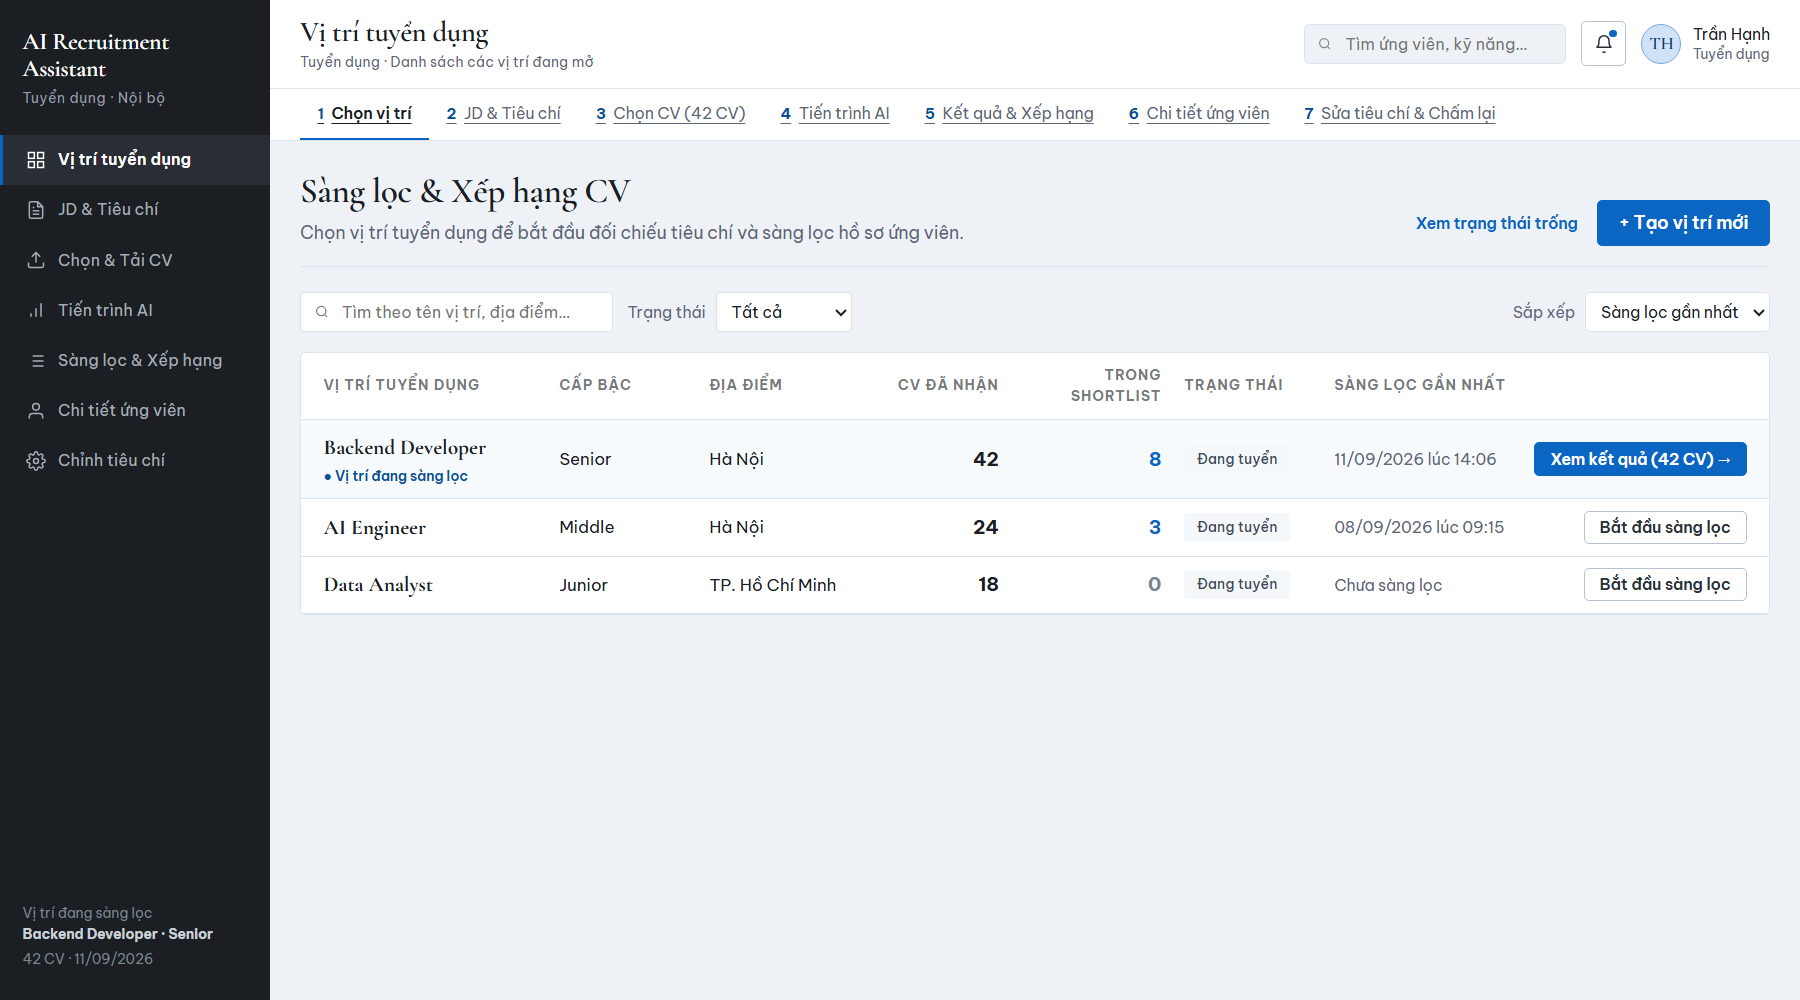
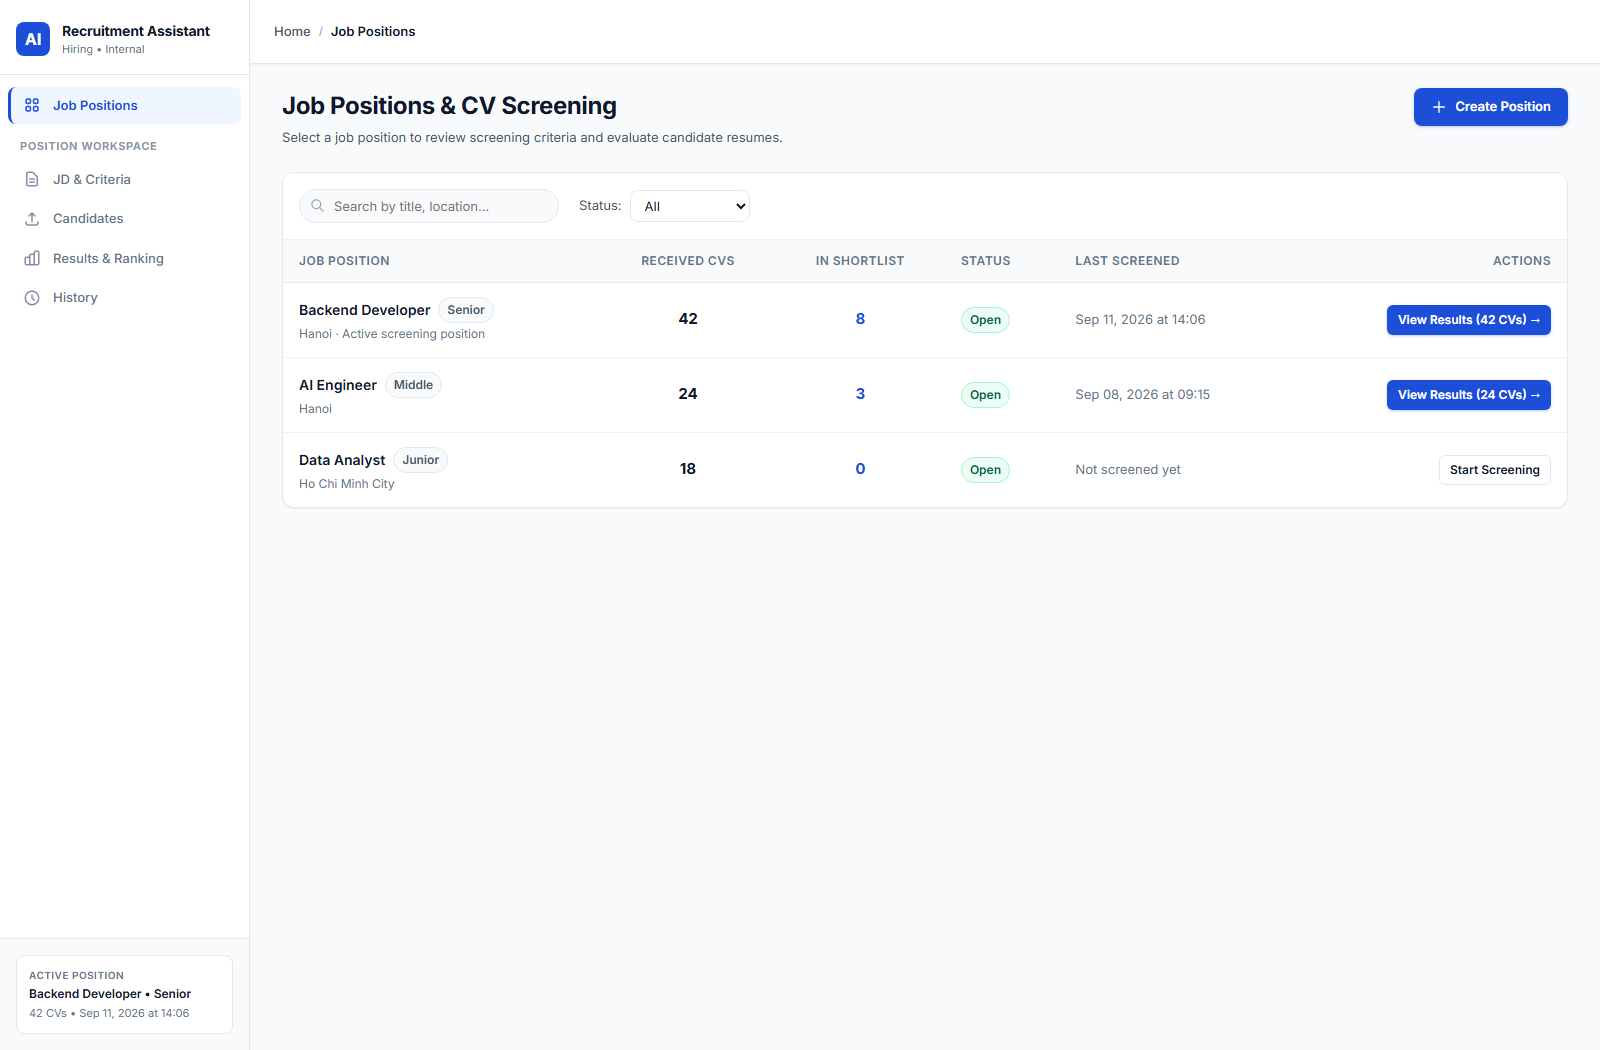
docs: update screenshots and README

diff --git a/frontend/src/router/index.ts b/frontend/src/router/index.ts
@@ -29,7 +29,10 @@ const routes: RouteDefinition[] = [
   route("/positions/{position}/ranking", () => import("../screens/scr-06-published-ranking/index.js")),
   route("/positions/{position}/candidates/{result}", () => import("../screens/scr-07-candidate-result/index.js")),
   route("/positions/{position}/runs", () => import("../screens/scr-08-run-history/index.js")),
-  route("/positions/{position}/criteria/new-revision", () => import("../screens/scr-03-criteria-review/index.js")),
+  // A dedicated literal route for "new-revision" doesn't capture a
+  // `revision` param, so the screen can't tell it apart from a draft — the
+  // generic {revision} route below already covers it, since scr-03's
+  // resolveMode() checks for the literal string "new-revision".
   route("/positions/{position}/criteria/{revision}", () => import("../screens/scr-03-criteria-review/index.js")),
   route("/positions/{position}/comparison", () => import("../screens/scr-10-run-comparison/index.js")),
 ];

diff --git a/README.md b/README.md
@@ -4,7 +4,7 @@ API contract: [OpenAPI 3.0.3](docs/api/openapi.yaml) · [API guide and requireme
 
 An explainable recruitment assistant concept for resume screening and candidate ranking based on Job Descriptions (JD). It aims to reduce manual screening effort and make results inspectable through evidence; the prototype does not establish real-world AI accuracy or bias reduction.
 
-The repository contains a **TypeScript API implementation with in-memory repositories and mock AI**, a new frontend scaffold, and the original standalone HTML/CSS/JavaScript prototype. Scoring is deterministic backend code; AI is used only as an extraction interface. Real PDF/DOCX parsing, AI-provider calls, database persistence and a connected UI remain unfinished.
+The repository contains a **TypeScript API implementation with in-memory repositories and mock AI**, a new fixture-driven frontend covering all ten target screens, and the original standalone HTML/CSS/JavaScript prototype. Scoring is deterministic backend code; AI is used only as an extraction interface. Real PDF/DOCX parsing, AI-provider calls, database persistence and a frontend connected to the live API remain unfinished.
 
 > **Design documentation:** [Architecture](docs/architecture/README.md) covers C1–C3, arc42, deployment, and sequence diagrams. [UI/UX design](docs/ui-ux/README.md) covers the target information architecture, screen hierarchy, flows, and screen specifications. Both describe the selected JD-based CV screening and ranking workflow; the current prototype does not yet implement all specified behavior.
 
@@ -148,44 +148,59 @@ Ranking reads `jobs.published_run_id`. Publication switches this pointer and com
 
 ---
 
-## 5. Original Prototype — Screen-by-Screen
+## 5. Frontend — Screen-by-Screen
 
-The screenshots below show the **seven-screen legacy prototype**, with simulated data and scoring. They are not the new frontend. The target UI has ten screens (SCR-01–SCR-10), documented in [UI/UX specifications](docs/ui-ux/screen-specifications.md); `frontend/` currently contains their route/heading placeholders and typed fixtures.
+The screenshots below are the current `frontend/` SPA (vanilla TypeScript, hash router, typed fixtures) — ten screens (SCR-01–SCR-10), documented in [UI/UX specifications](docs/ui-ux/screen-specifications.md). It is fixture-driven, not yet wired to the real API.
 
-### 5.1 Vị trí tuyển dụng — Job Positions (`#vi-tri`)
-Entry point. Lists open positions with their CV counts and screening status, so the recruiter picks a job before anything else happens.
+### 5.1 SCR-01 — Job Positions (`#/positions`)
+Entry point. Lists open positions with their CV counts, shortlist counts and screening status, so the recruiter picks a job before anything else happens.
 
-![Screen 1 — Job positions](docs/screenshots/01-job-positions.png)
+![SCR-01 — Job Positions](docs/screenshots/01-job-positions.png)
 
-### 5.2 JD & Tiêu chí — JD & Criteria (`#tieu-chi`)
-The JD on the left, the extracted criteria on the right. Each criterion carries a **weight** and a **Bắt buộc / Ưu tiên** (mandatory / preferred) flag — these two fields alone determine both the score and who falls below the divider.
+### 5.2 SCR-02 — Create Position & JD (`#/positions/new`)
+Position metadata plus the original JD text, which is preserved as immutable source evidence — later edits create a new draft rather than altering it retroactively.
 
-![Screen 2 — JD and criteria](docs/screenshots/02-jd-criteria.png)
+![SCR-02 — Create Position & JD](docs/screenshots/02-position-jd-form.png)
 
-### 5.3 Chọn & Tải CV — Upload CVs (`#tai-cv`)
-Batch selection of the CVs to screen (42 in the sample dataset), with per-file parse status before the scoring run is launched.
+### 5.3 SCR-03 — JD & Screening Criteria (`#/positions/{id}/criteria`)
+The JD on the left, the AI-extracted criteria on the right. Each criterion carries a **weight** and a **Mandatory / Preferred** flag — these two fields alone determine both the score and who falls below the knockout divider.
 
-![Screen 3 — Upload CVs](docs/screenshots/03-upload-cv.png)
+![SCR-03 — JD & Screening Criteria](docs/screenshots/03-jd-criteria.png)
 
-### 5.4 Tiến trình AI — AI Progress (`#tien-trinh`)
-The scoring run made visible: per-stage progress (parsing → extraction → matching → scoring) instead of an opaque spinner, so a long batch stays legible.
+### 5.4 SCR-04 — Candidate CV Workspace (`#/positions/{id}/cv-workspace`)
+The uploaded CVs for the position, with per-file parse status (parsed / parsing / duplicate / failed) before a screening run is launched.
 
-![Screen 4 — AI progress](docs/screenshots/04-ai-progress.png)
+![SCR-04 — Candidate CV Workspace](docs/screenshots/04-cv-workspace.png)
 
-### 5.5 Kết quả & Xếp hạng — Ranking (`#ket-qua`)
-The core deliverable. Exactly six columns; sub-scores live in the expandable row, never in the header table. Candidates who fail a mandatory criterion are **not dropped** — they stay ranked below a divider, still fully actionable, because "failed" is a recruiter's judgement call, not the system's.
+### 5.5 SCR-05 — AI Screening Run (`#/positions/{id}/screening-runs/{run}`)
+The scoring run made visible as a single completion state instead of an opaque spinner, redirecting into the ranking once every resume has been scored.
 
-![Screen 5 — Ranking](docs/screenshots/05-ranking.png)
+![SCR-05 — AI Screening Run](docs/screenshots/05-screening-run.png)
 
-### 5.6 Chi tiết ứng viên — Candidate Detail (`#chi-tiet/:id`)
-Per-criterion accountability: status, weight, contribution to the total, and the quoted evidence from the CV — with the original CV rendered alongside for verification.
+### 5.6 SCR-06 — Screening Results & Published Ranking (`#/positions/{id}/ranking`)
+The core deliverable. Candidates who fail a mandatory criterion are **not dropped** — they stay ranked below a divider, still fully actionable, because "failed" is a recruiter's judgement call, not the system's.
 
-![Screen 6 — Candidate detail](docs/screenshots/06-candidate-detail.png)
+![SCR-06 — Published Ranking](docs/screenshots/06-ranking.png)
 
-### 5.7 Sửa tiêu chí & Chấm lại — Rescore (`#chinh-tieu-chi`)
-What-if recalibration: change weights or promote a criterion to mandatory, rescore, and compare the new round against the previous one to see exactly which rankings moved and why.
+### 5.7 SCR-07 — Candidate Result & Evidence (`#/positions/{id}/candidates/{result}`)
+Per-criterion accountability: status, weight, contribution to the total, and the quoted evidence from the CV — with the original resume rendered alongside for verification.
 
-![Screen 7 — Rescore and compare](docs/screenshots/07-rescore.png)
+![SCR-07 — Candidate Result & Evidence](docs/screenshots/07-candidate-result.png)
+
+### 5.8 SCR-08 — Screening Run History (`#/positions/{id}/runs`)
+Audit trail across criteria revisions and screening rounds; selecting exactly two runs enables comparing their candidate ranking volatility.
+
+![SCR-08 — Screening Run History](docs/screenshots/08-run-history.png)
+
+### 5.9 SCR-09 — New Criteria Revision (`#/positions/{id}/criteria/new-revision`)
+What-if recalibration: adjust weights or promote a criterion to mandatory, starting from the last approved revision, then rescore to create a new run.
+
+![SCR-09 — New Criteria Revision](docs/screenshots/09-criteria-revision.png)
+
+### 5.10 SCR-10 — Run Comparison (`#/positions/{id}/comparison`)
+Side-by-side impact analysis between two runs: which candidates moved to failed or passed, and why, tied back to exactly which criterion changed weight or requirement type.
+
+![SCR-10 — Run Comparison](docs/screenshots/10-run-comparison.png)
 
 > **Colour is never the only signal.** Every state in these screens is carried by colour *and* an icon *and* a text label (and, for scores, bar length), so the interface stays readable for colour-blind users and in greyscale print.
 
@@ -226,14 +241,14 @@ The script defaults to `http://127.0.0.1:3100`; set `API_BASE_URL` to use anothe
 
 Files, jobs, decisions and idempotency records disappear when their process/store is reset. The mock extractor decodes uploaded bytes as UTF-8 and applies keyword/regex rules; test fixtures contain text labeled as PDF. Accepting a PDF/DOCX MIME type does not establish real document parsing or OCR support.
 
-### 6.2 New frontend scaffold
+### 6.2 New frontend
 
 ```bash
 npm run build -w @app/frontend
 python -m http.server 8080 --directory frontend
 ```
 
-Open `http://localhost:8080`. This serves the ten-screen scaffold, not a complete recruitment UI. Python is only needed for this example static server; another static HTTP server can be used.
+Open `http://localhost:8080`. This serves the ten-screen UI described in [§5](#5-frontend--screen-by-screen), built against typed fixtures — it is not yet wired to the backend API. Python is only needed for this example static server; another static HTTP server can be used.
 
 ### 6.3 Original standalone prototype
 
@@ -263,7 +278,7 @@ recruitment-assistant/
 │   ├── tests/                  # Unit, worker and direct-handler integration tests
 │   ├── scripts/verify-http.mjs # Main workflow against a running Next server
 │   └── worker/                 # Extraction/screening/rescore tasks and polling code
-├── frontend/                   # New vanilla TypeScript scaffold: ten target screens
+├── frontend/                   # New vanilla TypeScript SPA: ten fixture-driven screens
 ├── index.html                   # Single-Page Application shell with hash router & modals
 ├── README.md                    # System documentation, mindmap & architectural specifications
 ├── sang-loc-xep-hang-v2.dbml    # DBML source of the 14-table relational schema
@@ -282,14 +297,17 @@ recruitment-assistant/
     ├── use-case-diagram.svg     # UML use case diagram — screening & ranking (source)
     ├── use-case-diagram.png     # UML use case diagram — rendered
     ├── database-design-erd.png  # 14-table relational database architecture diagram
-    └── screenshots/             # Captures of all 7 UI screens (embedded in §5)
+    └── screenshots/             # Captures of all 10 UI screens (embedded in §5)
         ├── 01-job-positions.png
-        ├── 02-jd-criteria.png
-        ├── 03-upload-cv.png
-        ├── 04-ai-progress.png
-        ├── 05-ranking.png
-        ├── 06-candidate-detail.png
-        └── 07-rescore.png
+        ├── 02-position-jd-form.png
+        ├── 03-jd-criteria.png
+        ├── 04-cv-workspace.png
+        ├── 05-screening-run.png
+        ├── 06-ranking.png
+        ├── 07-candidate-result.png
+        ├── 08-run-history.png
+        ├── 09-criteria-revision.png
+        └── 10-run-comparison.png
 ```
 
 ---
